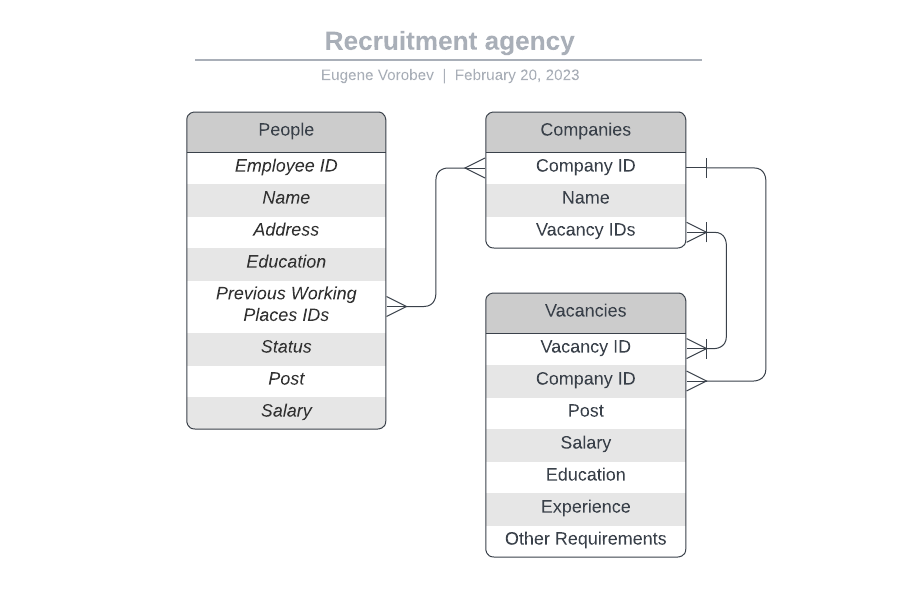
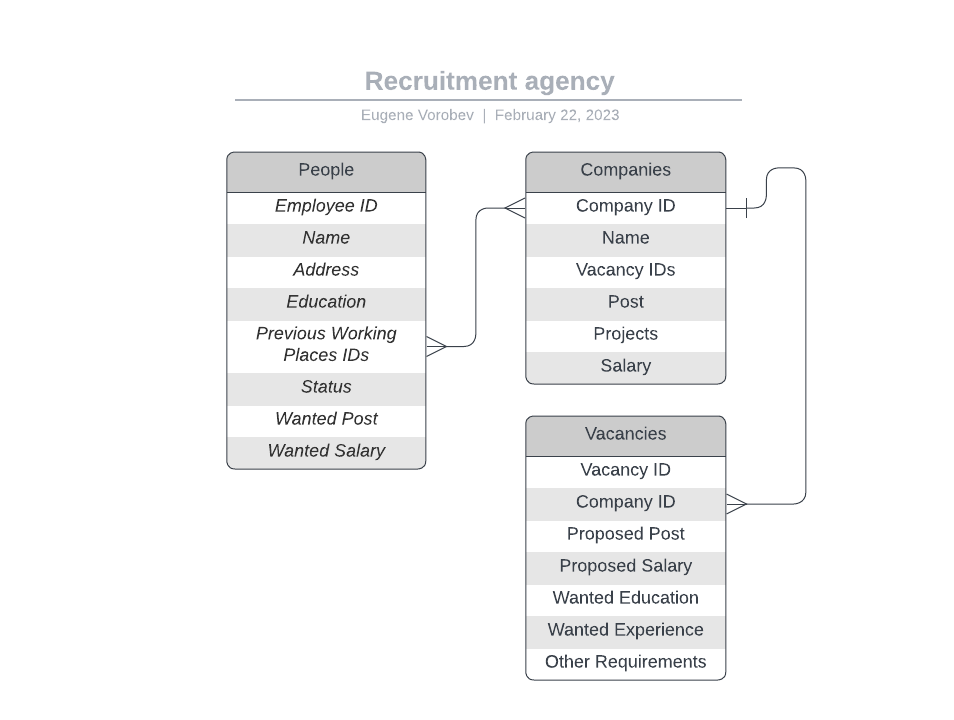
Add scenarios. Update schemes.

Changed region(s): [[0.1838, 0.0603, 0.8578, 0.9648]]

diff --git a/readme.md b/readme.md
@@ -4,13 +4,15 @@
 -----------------------
 ![Alt text](docs/website-diagram.png)
 -----------------------
-С любой страницы можно перейти на главную, нажав соответвующую кнопку.
+С любой страницы можно перейти на главную, нажав соответствующую кнопку.
 
 ### Главная страница
 - Ссылка на список резюме
 - Ссылка на список вакансий
+- Ссылка для создания резюме
+- Ссылка для создания вакансии
 
-### Страница со списком всех резюме(и окно фильтров поиска)
+### Страница со списком всех резюме(и окно параметров поиска)
 - Список всех резюме, выложенных людьми
 - На каждое резюме можно нажать, что приведет на страницу с развернутым резюме
 - Получение списка резюме по образованию, компаниям, в которых люди работали, по занимавшимся должностям, зарплатам
@@ -20,7 +22,7 @@
 - Получение истории работы для данного человека
 - Поиск подходящих вакансий на резюме
 
-### Страница со списком всех вакансий(и окно фильтров поиска)
+### Страница со списком всех вакансий(и окно параметров поиска)
 - Список всех вакансий, выложенных компаниями
 - На каждую вакансию можно нажать, что приведет на страницу с развернутой вакансей
 - Получение списка вакансий по компаниям, должностям, зарплатам
@@ -32,3 +34,28 @@
 Схема базы данных
 -----------------
 ![Alt text](docs/database-erd.png)
+
+Сценарии использования
+----------------------
+
+- Создание резюме/вакансии
+    - Перейти на главную страницу
+    - Нажать на кнопку "Добавить резюме/вакансии"
+    - Заполнить необходимые поля, подтвердить изменения в базе данных
+    
+- Поиск резюме/вакансий
+	- Перейти на главную страницу
+	- Перейти на страницу со списком резюме/вакансий
+	- Выбрать все необходимые параметры поиска
+	- Нажать кнопку "Поиск"
+	
+- Просмотр предыдущих мест работы
+	- Перейти на главную страницу
+	- Перейти на страницу со списком резюме
+	- Кликнуть по интересующему резюме
+	- Нажать на кнопку "История работы"
+	
+- Поиск вакансий по резюме(аналогично для поиска резюме по вакансии)
+	- Перейти на главную страницу
+	- Создать резюме
+	- Нажать на кнопку "Найти вакансии"
